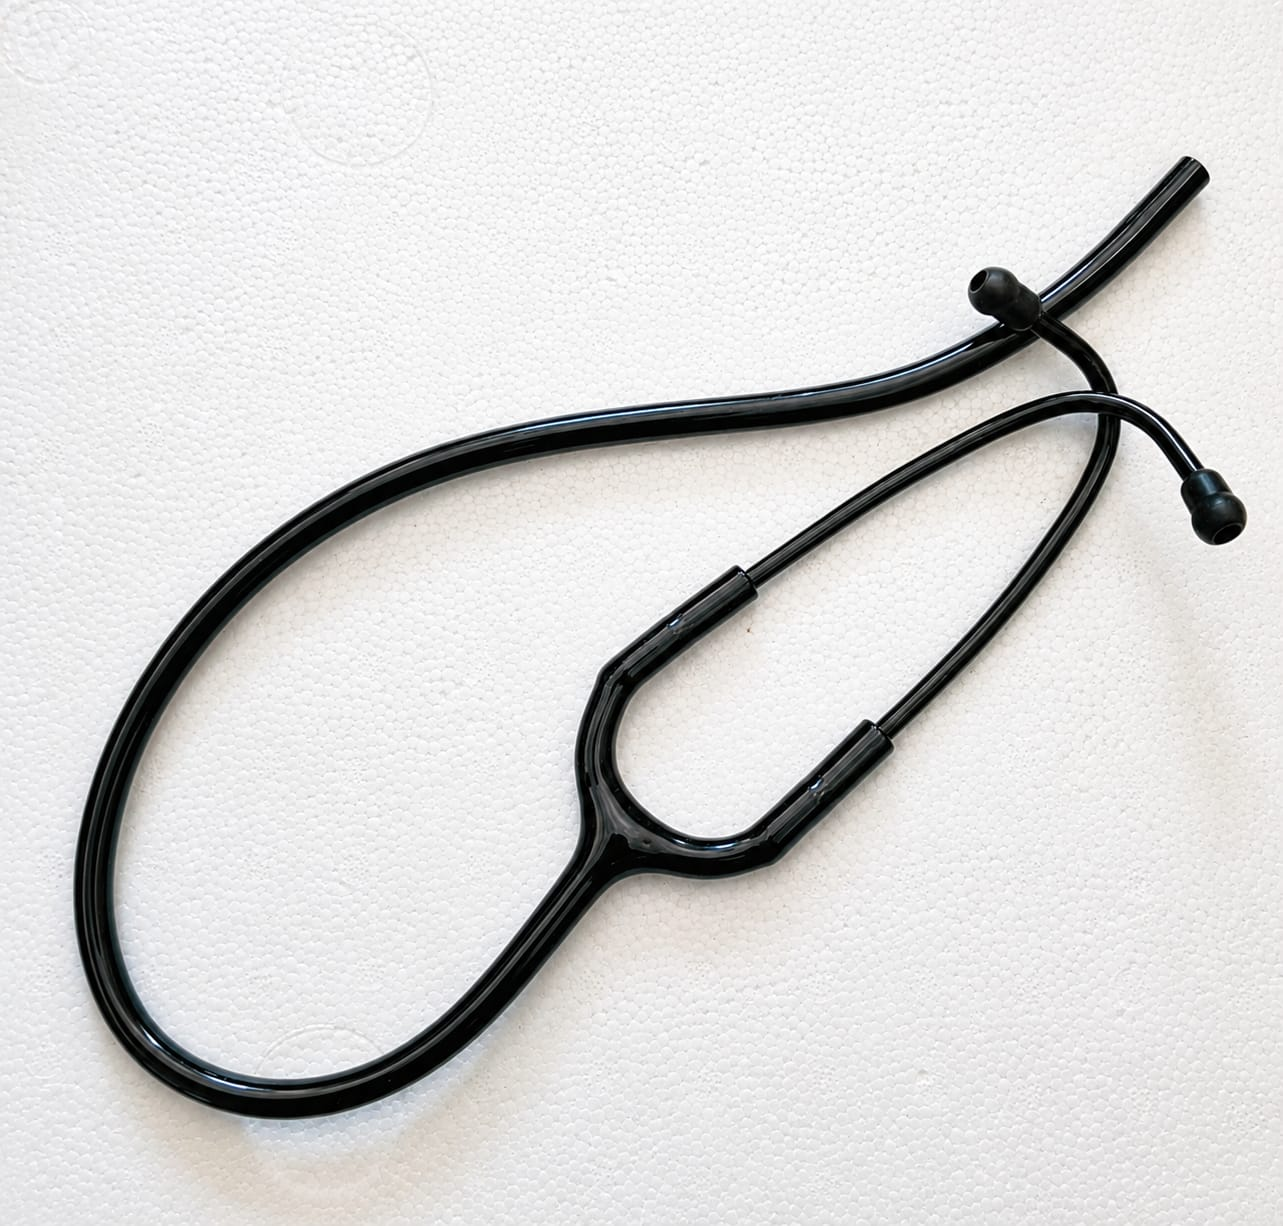
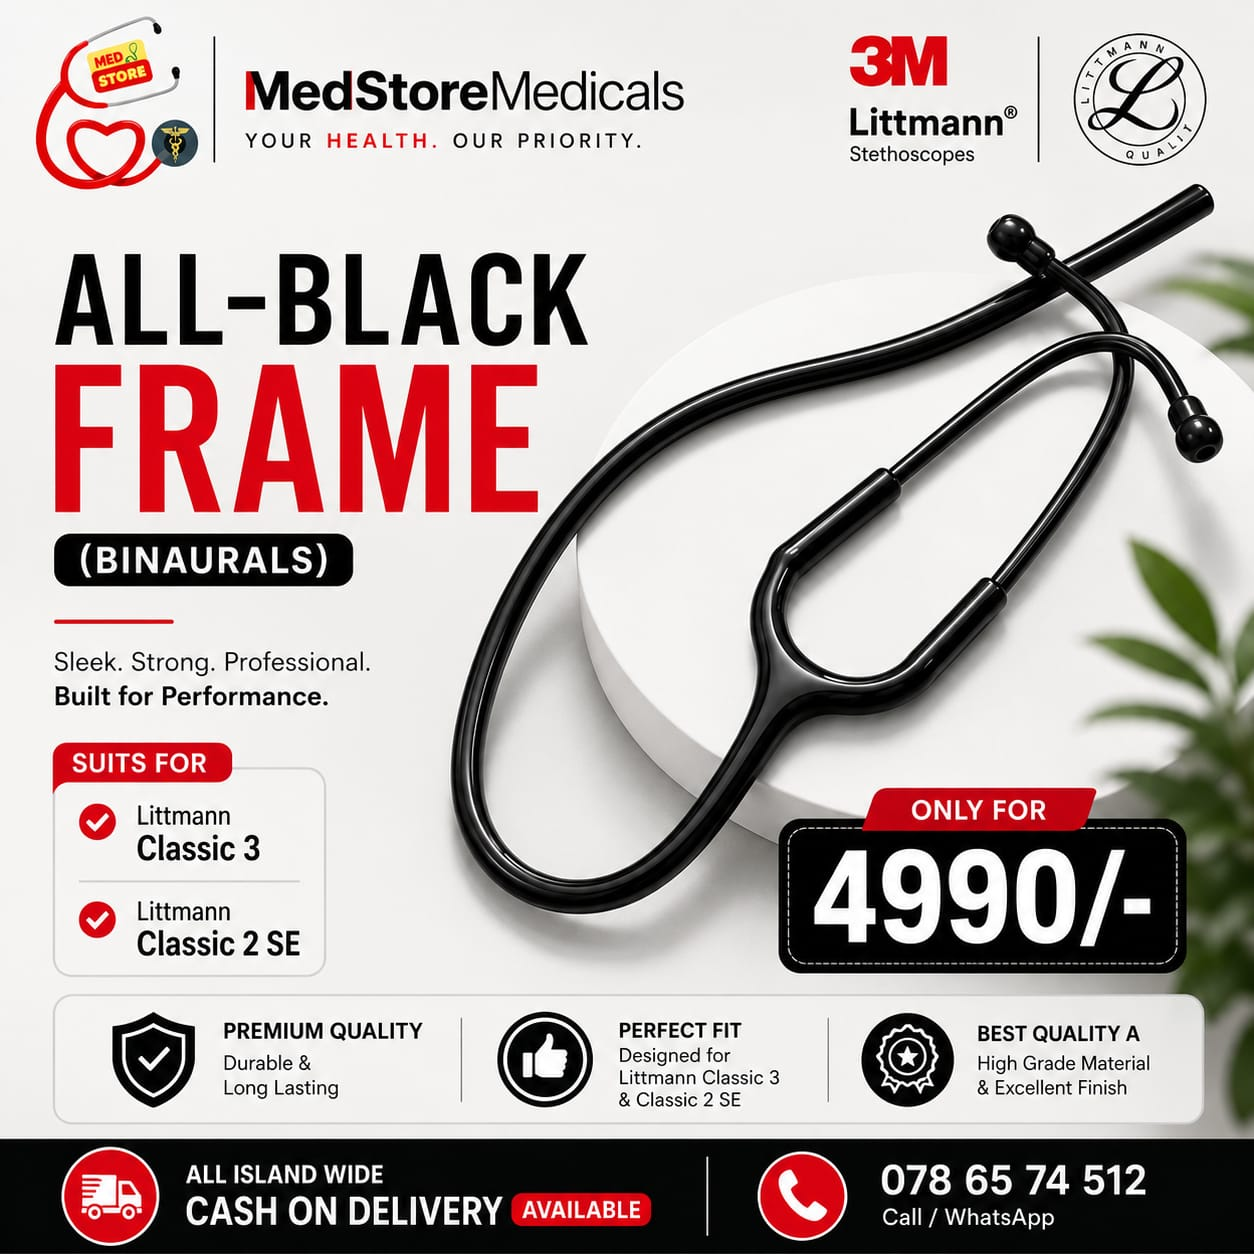
Add image

diff --git a/medstore-app/src/data/products.ts b/medstore-app/src/data/products.ts
@@ -229,7 +229,7 @@ export const products: Product[] = [
     description: '🩺 Refresh your Littmann. Hear every heartbeat with confidence.\n\nPremium Quality A All-Black Binaurals for Littmann Stethoscopes\n✅ Compatible with Littmann Classic III & Classic II SE\n✅ Comfortable fit with soft-sealing eartips\n✅ Durable, lightweight & premium finish\n✅ Easy to replace – restore your stethoscope in minutes',
     longDescription: '🩺 Refresh your Littmann. Hear every heartbeat with confidence.\n\nPremium Quality A All-Black Binaurals for Littmann Stethoscopes\n✅ Compatible with Littmann Classic III & Classic II SE\n✅ Comfortable fit with soft-sealing eartips\n✅ Durable, lightweight & premium finish\n✅ Easy to replace – restore your stethoscope in minutes',
     category: 'Stethoscope Accessories',
-    images: ['/images/littmann-all-black-binaurals.jpeg'],
+    images: ['/images/littmann-all-black-binaurals.jpeg', '/images/littmann-all-black-binaurals-2.jpeg'],
     variants: [
       { color: 'Black', label: 'Black' },
     ],
